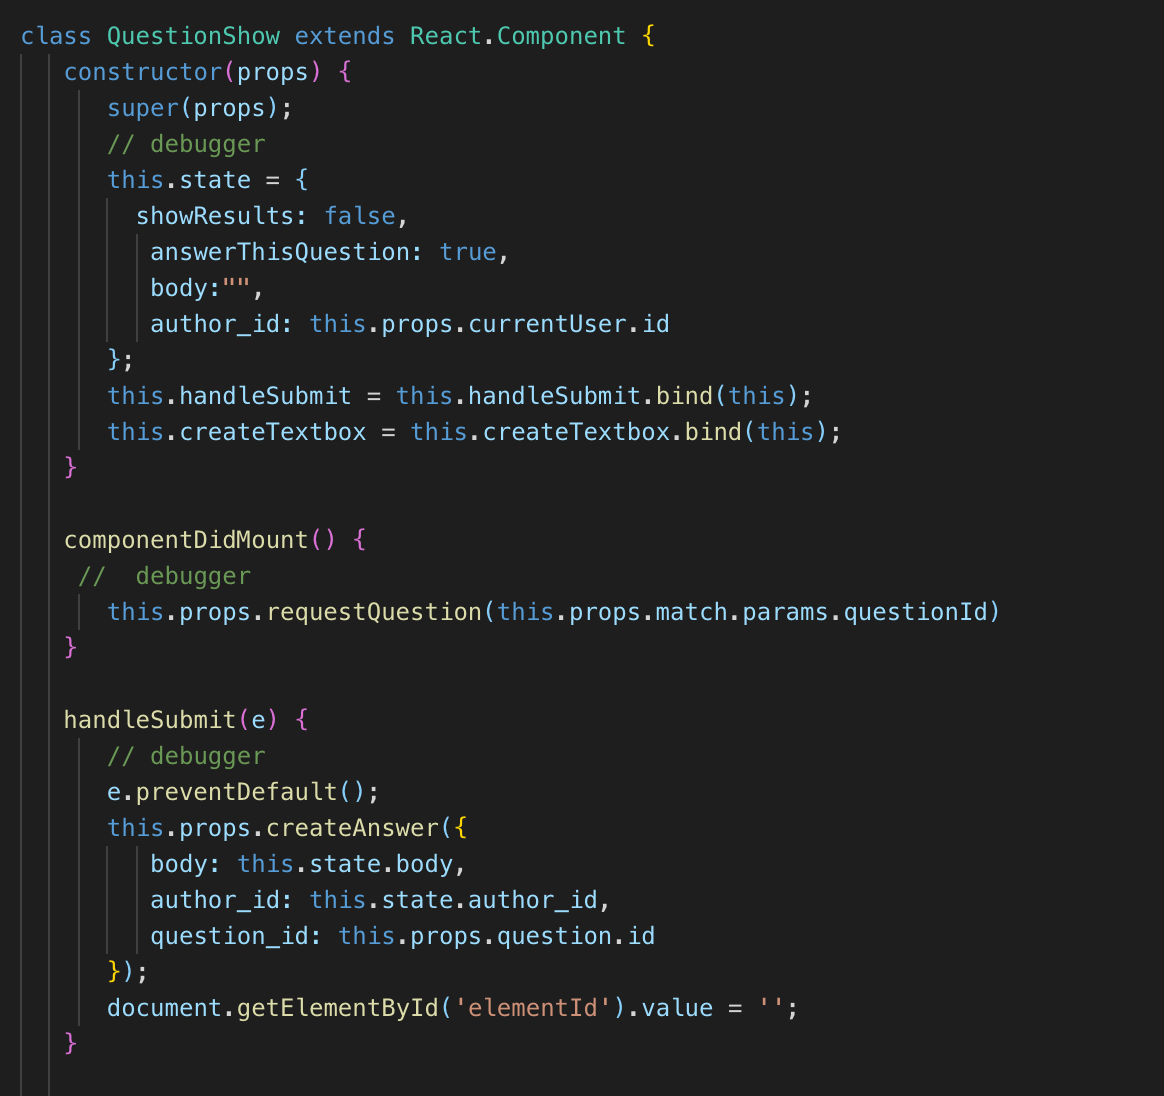
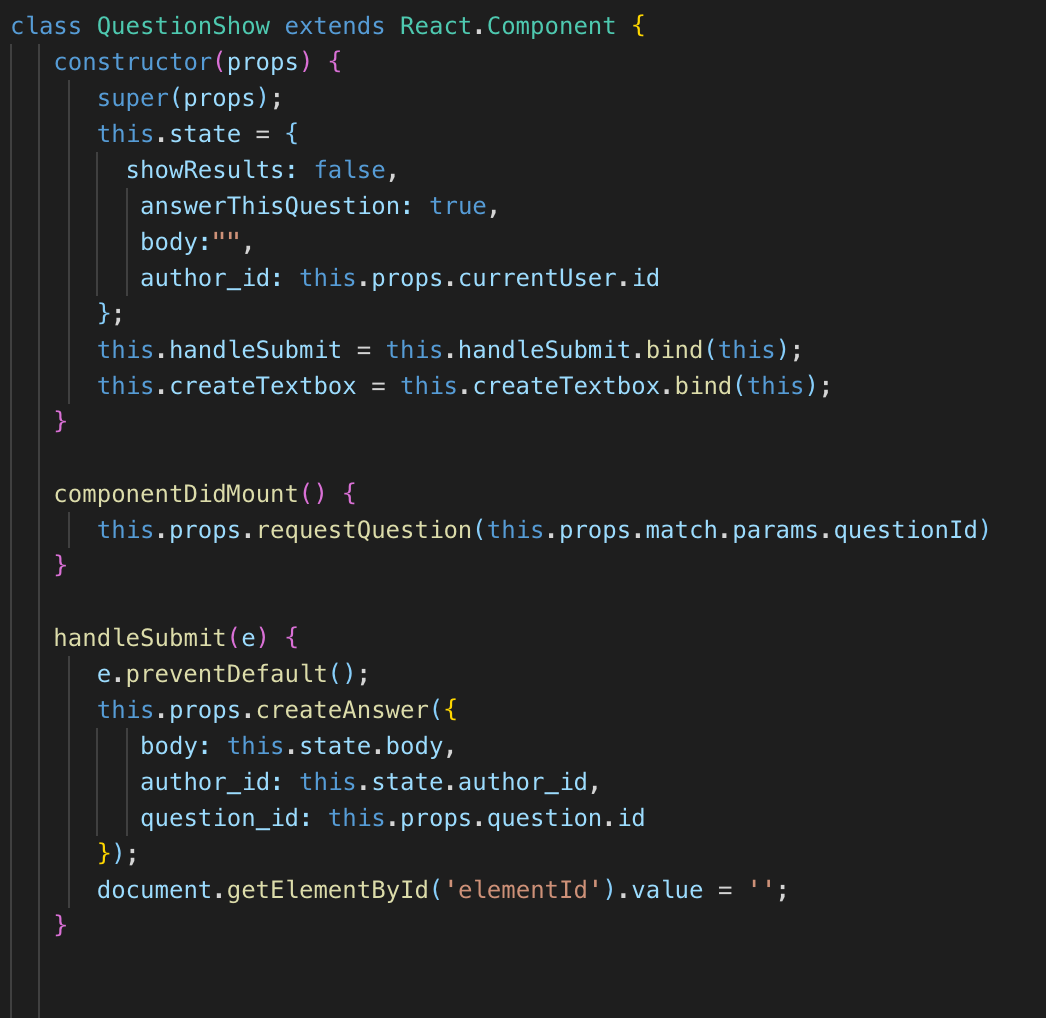
fix img

Changed region(s): [[0.0, 0.0, 0.9484, 1.0], [0.5507, 0.9136, 0.6119, 0.944], [0.4283, 0.1827, 0.4589, 0.2132]]

diff --git a/frontend/components/questions/question_show.jsx b/frontend/components/questions/question_show.jsx
@@ -1,11 +1,8 @@
 import React from 'react';
-import { Link } from 'react-router-dom';
-// import QuestionShowResponse from './question_show_response';
 
 class QuestionShow extends React.Component {
    constructor(props) {
       super(props);
-      // debugger
       this.state = { 
         showResults: false,
          answerThisQuestion: true, 
@@ -17,12 +14,10 @@ class QuestionShow extends React.Component {
    }
 
    componentDidMount() {
-    //  debugger
       this.props.requestQuestion(this.props.match.params.questionId)
    }
 
    handleSubmit(e) {
-      // debugger
       e.preventDefault();
       this.props.createAnswer({
          body: this.state.body,
